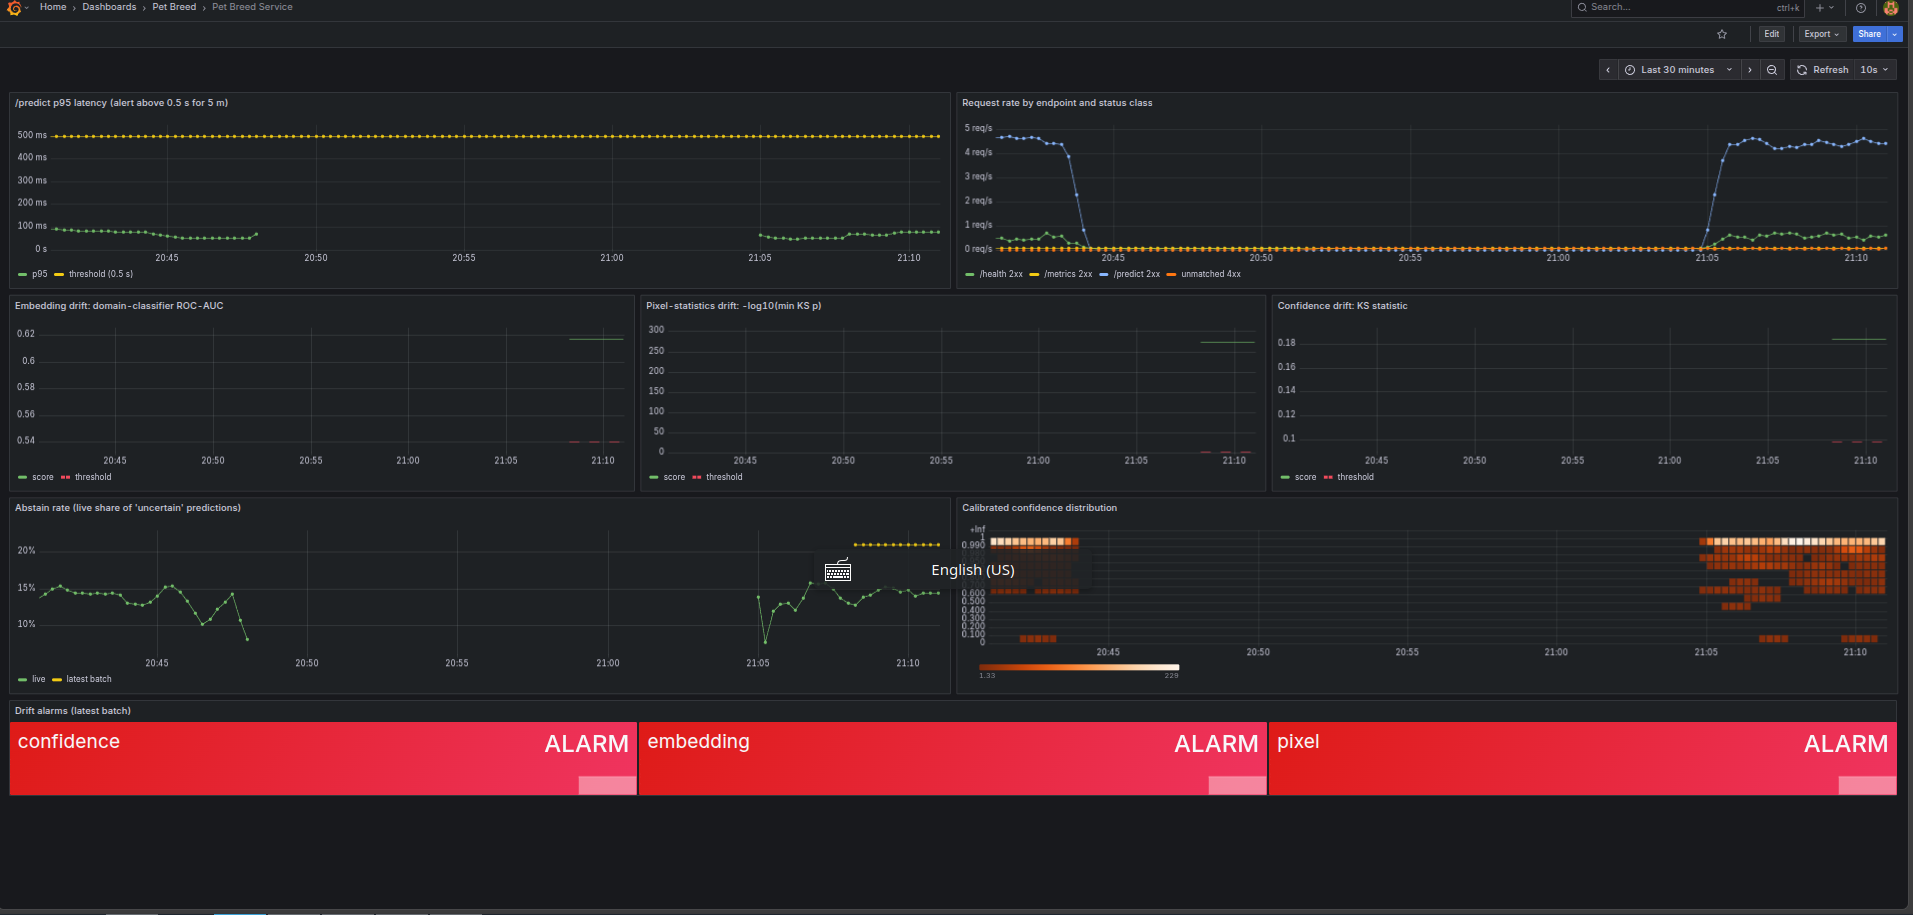
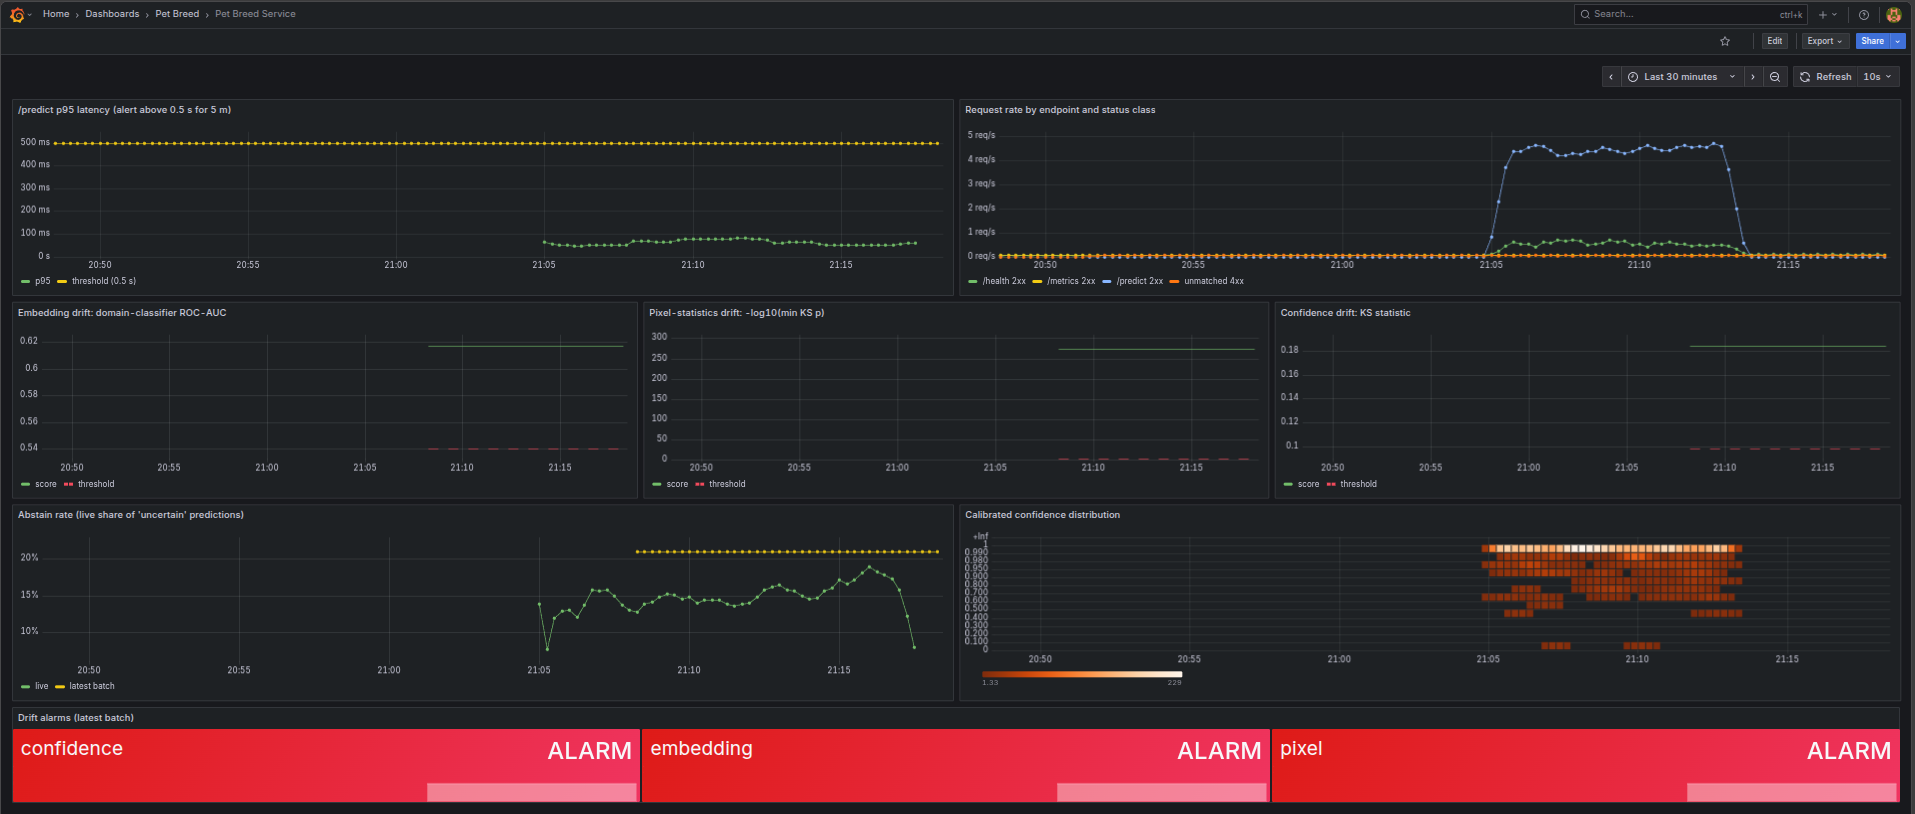
phase-11.1: Grafana caption describes the drift-batch screenshot
Commits the owner's latest reports/grafana_dashboard.png (the working-tree copy,
newer than 8680b2f and without the input-method overlay).

diff --git a/README.md b/README.md
@@ -101,7 +101,7 @@ repository owner can do.
 | Evidently report on the latest batch | done | `reports/evidently_latest_batch.html` |
 | Drift check after every batch scoring run | done | `batch.py` (`--no-drift` skips) |
 | Prometheus exposes drift scores and p95 | done | API `/metrics` + Pushgateway gauges |
-| Grafana >= 3 panels, screenshot in README | done | provisioned 8-panel dashboard; `reports/grafana_dashboard.png` (2026-10-13, live `/predict` traffic: request rate, p95 under the 0.5 s line, abstain rate and confidence heatmap populated; drift panels empty), shown in [Monitoring](#monitoring-and-drift-module-5) |
+| Grafana >= 3 panels, screenshot in README | done | provisioned 8-panel dashboard; `reports/grafana_dashboard.png` (2026-10-13, live `/predict` traffic and a pushed `brightness_down` severity-3 batch: p95 under the 0.5 s line, all three drift scores above threshold, all three alarms firing), shown in [Monitoring](#monitoring-and-drift-module-5) |
 | Drift alert -> Airflow retraining DAG -> triggered run in README | partial | drift alarm -> guarded retrain -> triggered run `ba7419ee` shown below; no Airflow DAG |
 | Retraining quality gate: promote only if top-1 >= Production - 0.01 | done | `registry.promote_if_better`; a passing candidate gets `challenger` only, Production needs a human. The demo candidate (0.9470 vs 0.9497) passed |
 | Structured pruning, INT8 PTQ, QAT, distillation, optimization benchmark table, worse-row explanations | not done (out of scope) | owner decision |
@@ -438,15 +438,15 @@ panels: p95 latency with its 0.5 s line, request rate, one drift-score panel per
 detector with its threshold, abstain rate, a calibrated-confidence heatmap, and alarm
 status. After `down -v` and `up -d`, which removed both volumes, the dashboard (8
 panels, provisioned), the datasource and both alert rules came back.
-Screenshot (taken by the owner on 2026-10-13 during live `/predict` traffic; range
-"Last 15 minutes", about 20:31-20:46, 10 s refresh). `/predict` 2xx runs at about
-4.3-4.6 req/s from about 20:38 to 20:44, `/health` 2xx stays below 1 req/s, and
-`/metrics` and unmatched 4xx stay near 0. The `/predict` p95 stays between about 50
-and 95 ms, well under the 0.5 s alert line. The abstain rate moves between 8% and 16%
-(mostly 13-15%), and the calibrated-confidence heatmap has most predictions in the
-0.99-1 bucket. The three drift panels show "No data": no batch drift check pushed
-scores in this window, and Prometheus held no `petbreed_drift_*` series when checked
-afterwards. Seven of the 8 panels are in the frame; the alarm-status panel is not:
+Screenshot (taken by the owner on 2026-10-13; range "Last 30 minutes", about
+20:47-21:17, 10 s refresh) during live `/predict` traffic and a pushed
+`brightness_down` severity-3 batch of 200 images. `/predict` 2xx runs at about
+4.3-4.7 req/s from about 21:04 to 21:14, and its p95 stays at about 50-70 ms, well
+under the 0.5 s alert line. Every drift score is far above its threshold: embedding
+AUC 0.617 vs 0.540, pixel score 274.16 vs 2.48, confidence KS 0.184 vs 0.098 (exact
+values in `reports/drift/latest.json`), and the alarm-status panel shows ALARM for
+all three detectors. The live abstain rate moves between about 9% and 18%; the
+batch's abstain rate is 0.21. All 8 panels are in the frame:
 
 ![Grafana dashboard](reports/grafana_dashboard.png)
 
